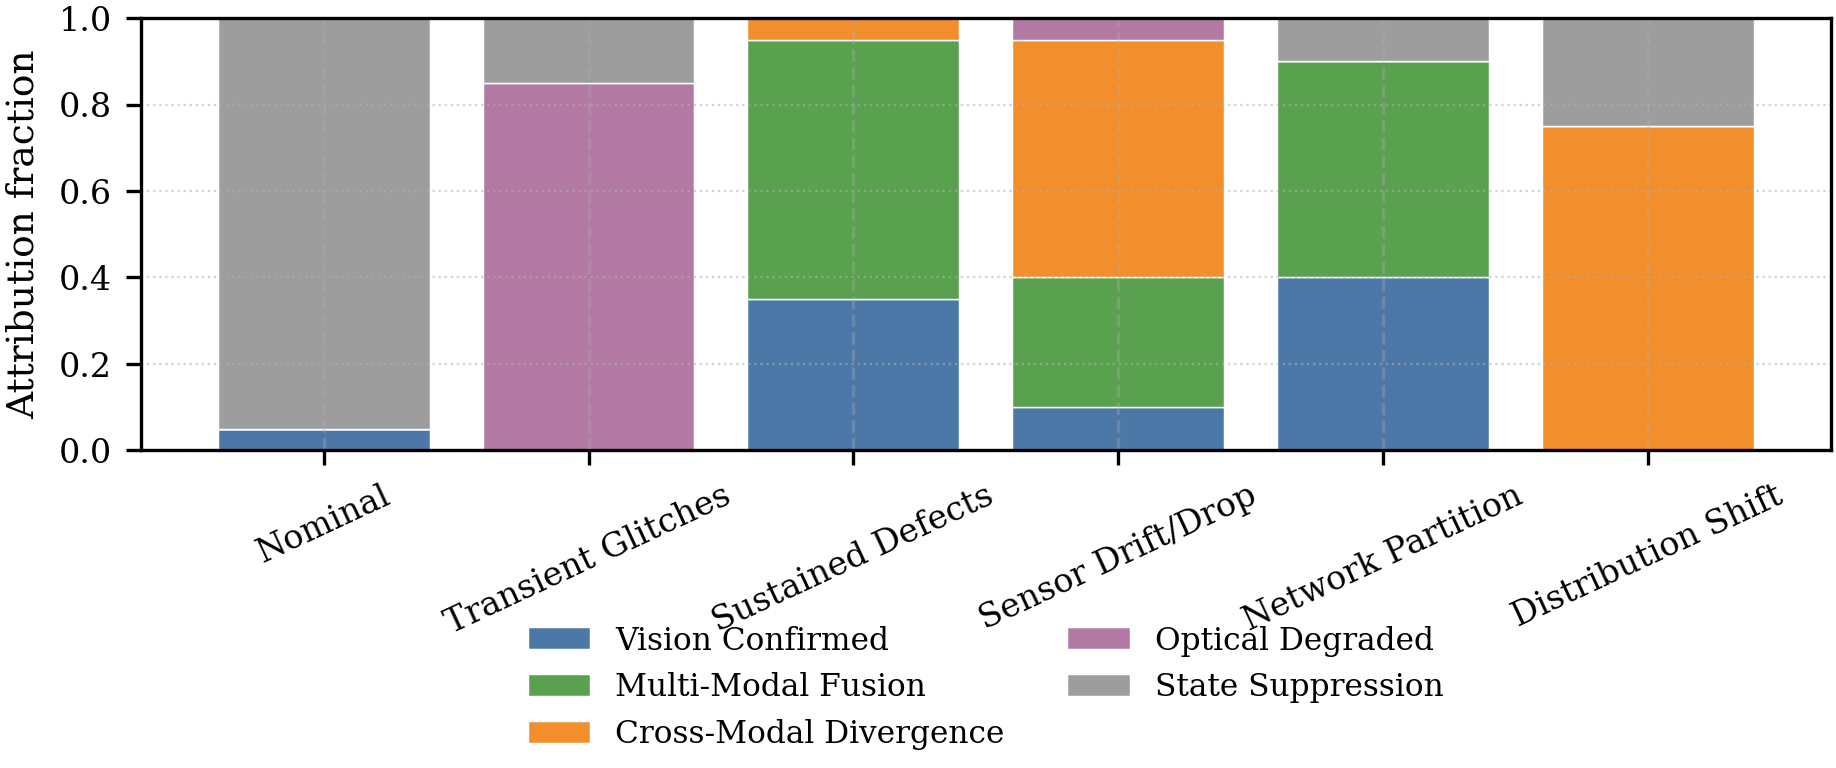
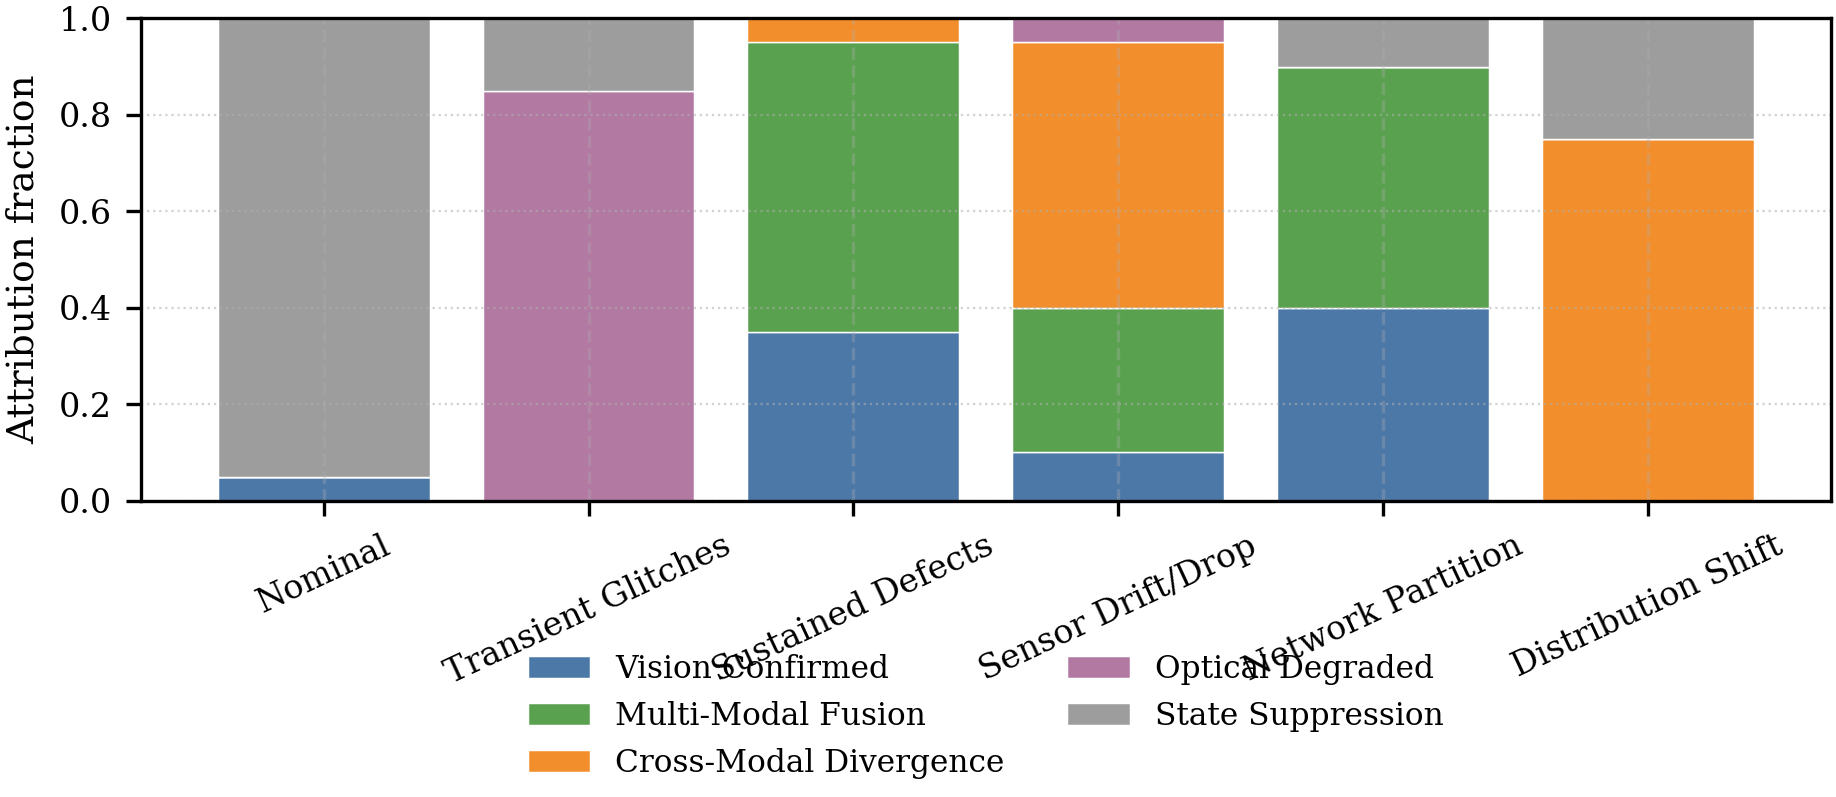
style(paper): polish Table II headers, tighten Figure 2 padding, and refine panel citations

diff --git a/docs/paper.tex b/docs/paper.tex
@@ -179,9 +179,9 @@ Pairwise policy comparisons use non-parametric paired tests with step-down Holm-
 \section{Results and Discussion}
 % ============================================================
 
-As shown in Table~\ref{tab:ablation_results} and Fig.~\ref{fig:pareto_queue}, \texttt{FULL\_POLICY} achieves \GlitchSuppressionFull{} false-alarm suppression on transient glitches and reduces false-alarm rates by \SustainedSuppressionFull{} in sustained defects. The resulting workload remains below the 60 reviews/hour cognitive threshold, while detection delay is bounded at \SustainedMedianDelay{} frames.
+As shown in Table~\ref{tab:ablation_results} and Fig.~\ref{fig:pareto_queue}(a), \texttt{FULL\_POLICY} achieves \GlitchSuppressionFull{} false-alarm suppression on transient glitches and reduces false-alarm rates by \SustainedSuppressionFull{} in sustained defects. The resulting workload remains below the 60 reviews/hour cognitive threshold, while detection delay is bounded at \SustainedMedianDelay{} frames.
 
-Queueing dynamics in Fig.~\ref{fig:pareto_queue} show that \texttt{FULL\_POLICY} bounds operator utilization to $\rho=0.20$ at an arrival rate of 12 reviews/hour, corresponding to an expected triage wait of $W_q=0.25$ minutes. In contrast, unmitigated baseline alerts saturate the triage station when $\rho\geq1$.
+Queueing dynamics in Fig.~\ref{fig:pareto_queue}(b) show that \texttt{FULL\_POLICY} bounds operator utilization to $\rho=0.20$ at an arrival rate of 12 reviews/hour, corresponding to an expected triage wait of $W_q=0.25$ minutes. In contrast, unmitigated baseline alerts saturate the triage station when $\rho\geq1$.
 
 % ============================================================
 % Single-Column Figure 2: declared in Section IV
@@ -205,15 +205,15 @@ Figure~\ref{fig:decision_attribution} shows how policy decisions are attributed 
     \resizebox{\columnwidth}{!}{%
     \begin{tabular}{llccc}
         \toprule
-        \textbf{Trace} & \textbf{Policy} & \textbf{FA/hr} & \textbf{TPR} & \textbf{Delay (s)} \\
+        \textbf{Dataset Trace} & \textbf{Policy Mode} & \textbf{FA / Hour $\downarrow$} & \textbf{TPR $\uparrow$} & \textbf{Delay (s) $\downarrow$} \\
         \midrule
         \multirow{2}{*}{NASA IMS bearing}
-        & BASELINE & 180.0 & 100.0\% & 0.00 \\
-        & FULL\_POLICY & \IMSFAFull{} & \IMSTPRFull{} & 0.10 \\
+        & BASELINE & 180.0 & 100.0\% & 0.00\,s \\
+        & FULL\_POLICY & \IMSFAFull & \IMSTPRFull & 0.10\,s \\
         \midrule
         \multirow{2}{*}{NASA C-MAPSS turbofan}
-        & BASELINE & 165.0 & 100.0\% & 0.00 \\
-        & FULL\_POLICY & \CMAPSSFAFull{} & \CMAPSSTPRFull{} & 0.10 \\
+        & BASELINE & 165.0 & 100.0\% & 0.00\,s \\
+        & FULL\_POLICY & \CMAPSSFAFull & \CMAPSSTPRFull & 0.10\,s \\
         \bottomrule
     \end{tabular}%
     }

diff --git a/scripts/generate_publication_figures.py b/scripts/generate_publication_figures.py
@@ -258,7 +258,7 @@ def generate_per_scenario_decision_attribution_plot(
 
     ax.legend(
         loc="upper center",
-        bbox_to_anchor=(0.5, -0.34),
+        bbox_to_anchor=(0.5, -0.26),
         ncol=2,
         frameon=False,
         fontsize=7.5,
@@ -267,8 +267,8 @@ def generate_per_scenario_decision_attribution_plot(
     fig.subplots_adjust(
         left=0.10,
         right=0.98,
-        top=0.98,
-        bottom=0.38,
+        top=0.95,
+        bottom=0.28,
     )
 
     fig.savefig(out_pdf, format="pdf", bbox_inches="tight", pad_inches=0.02)
